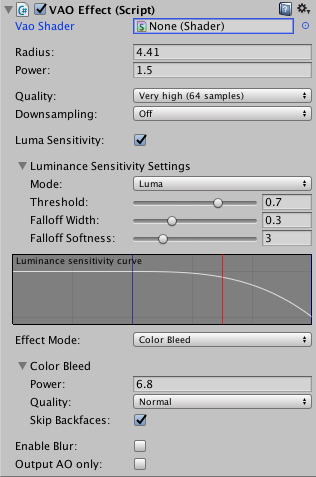
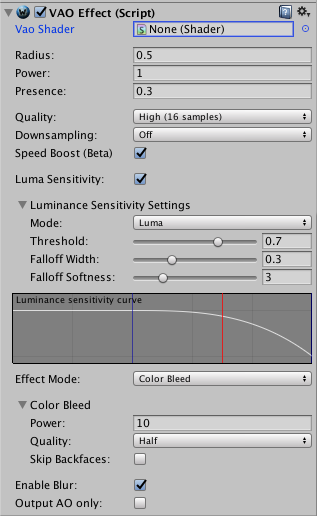
more vao 1.4 wip

Changed region(s): [[0.0, 0.0, 1.0, 1.0]]

diff --git a/_posts/2017-12-01-VAO-1-4-Released.md b/_posts/2017-12-01-VAO-1-4-Released.md
@@ -15,13 +15,13 @@ Another new version of our VAO has been released! We have both added new feature
 
 VAO is our answer to ambient occlusion problem. It has better performance and visual quality than other SSAO solutions. 
 
-[Unity Asset Store Link](http://u3d.as/xzs)
+Download [free demo]() and buy at [Unity Asset Store](http://u3d.as/xzs)
 
 ![]({{site.baseurl}}/images/social-vao-heading.jpg)
 
 ## What's new in v1.4  
 
- * [Downloadable demo here!]()
+ * [Downloadable demo here]() with [installation guide]()
  * *Color bleed* mode
  * *Presence* option to make effect more pronounced without increasing radius (which means no additional performance hit)
  * *Speed Boost* experimental optimization feature
@@ -33,14 +33,21 @@ VAO works by approximating amount of light that can reach given pixel taking vol
 
 Our algorithm works in screen space (using only normals and depth values readily available in G-Buffer). Therefore, there is no performance hit when using more complicated meshes (more polygons) and it makes use of bump textures automatically. It is also fully dynamic - there is no need for pre-calculating specific scenes and it works with both static and moving objects.
 
-In the newest version, we also provide option to gradually reduce VAO on bright surfaces such as windows, TV screens, lamps etc. making it easy to setup VAO in wide variety of scenes.
-
-You can get VAO at [Unity Asset Store](http://u3d.as/xzs).
+In the newest version, we added color bleed option. This means that on top of shadows the surfaces now cast their color onto their surroundings. We also 
 
 See [documentation here](https://projectwilberforce.github.io/vaomanual/) and [forum here](https://forum.unity3d.com/threads/volumetric-ambient-occlusion-image-effect.428426/).
 
 Please rate, review and comment, we are looking forward to your feedback.
 
 In case of questions or further issues, please contact us at <projectwilberforce@gmail.com>
+
+## Performance tips
+
+- Judge the quality by the final image, not AO only.
+- For the best results set *Radius* so the shadow created by the effect is around 10-20cm (4-8in).
+- To make AO effect more pronounced increase *Presence* and *Power* settings before increasing *Radius*.
+- Use appropriate number of samples (*Quality* setting) - high enough to hide aliasing.
+- Consider using *Downsampling* at high screen resoltions.
+- Use *Speed Boost* feature (currently experimental.)
 
 ## Screenshots

diff --git a/vaomanual/index.md b/vaomanual/index.md
@@ -20,7 +20,7 @@ title: VAO Unity plugin User Guide
 
 Volumetric Ambient Occlusion (VAO) is our Screen Space Ambient Occlusion for Unity 5 (5.3.0 or higher)
 
-You can buy VAO at [Unity Asset Store](http://u3d.as/xzs).
+You can [download free demo]() (installation guide [here](/vaodemo)) or buy VAO at [Unity Asset Store](http://u3d.as/xzs).
 
 - High performance and visual quality
 - Compatible with all Unity rendering paths (Forward, Deferred and Legacy) and anti-aliasing
@@ -93,6 +93,11 @@ Number of samples used to calculate VAO. Choose lower settings if you need faste
 
 Reduces resolution of output, use this to gain performance at the cost of quality. Try lowering quality parameter first as this reduces quality dramatically. Having high quality setting with downsampling enabled serves no purpose.
 
+**Speed Boost**
+*(currently experimental)*
+
+Speeds up the calculation by downsampling the parts without occlusion. Result in higher framerate but may cause some small loss of detail (YMMV.)
+
 **Luminance Sensitivity**
 
 Reduces occlusion on bright surfaces - either light sources or strongly lit areas. We recommend enabling this in combination with downsampling to reduce the most visible artifact caused by reducing of the occlusion texture. Also use this to prevent occlusion on lamps, windows, screens etc.
@@ -156,7 +161,7 @@ Use for development to display only ambient occlusion component.
 - To make AO effect more pronounced increase *Presence* and *Power* settings before increasing *Radius*.
 - Use appropriate number of samples (*Quality* setting) - high enough to hide aliasing.
 - Consider using *Downsampling* at high screen resoltions.
-- Use *Speed Boost* feature (currently experimental.)
+- Use *Speed Boost* feature.
 
 **Unwanted interaction with other camera effects**
 
